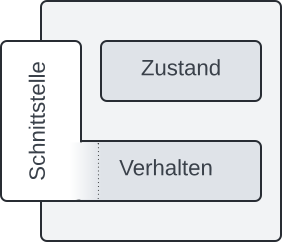
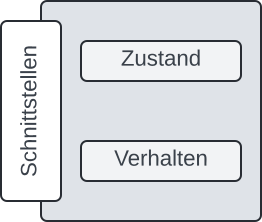
docs: update section Prinzipien guten Entwurfs

Changed region(s): [[0.0, 0.0, 1.0, 1.0], [0.458, 0.2162, 0.7939, 0.3243]]

diff --git a/docs/repetitorium/part two/Objektorientierter Entwurf/prinzipien guten entwurfs.tex b/docs/repetitorium/part two/Objektorientierter Entwurf/prinzipien guten entwurfs.tex
@@ -1,4 +1,4 @@
-\usepackage{lstmisc}\section{Prinzipien guten Entwurfs}
+\section{Prinzipien guten Entwurfs}
 
 Der Abschnitt~\cite[69, 3.7 Prinzipien guten Entwurfs]{Wed09b} vermittelt Kenntnisse, anhand derer man
 
@@ -10,7 +10,7 @@ Der Abschnitt~\cite[69, 3.7 Prinzipien guten Entwurfs]{Wed09b} vermittelt Kenntn
 
 \subsection{Was ist ein guter Entwurf}
 
-Die Frage läßt sich nciht generell beantworten, sondenr hängt von verschiedenen Faktoren ab, wie den Anforderugen einer konkreten Aufgabe.\\
+Die Frage läßt sich nicht generell beantworten, sondern hängt von verschiedenen Faktoren ab, wie den Anforderungen einer konkreten Aufgabe.\\
 
 \subsubsection*{Generelle Prinzipien}
 
@@ -59,7 +59,7 @@ Dennoch spricht folgendes für eine Zerlegung:
 
 
 \subsection{Hohe Kohäsion}
-Erfolgt eine Zerlegung in Pakete oder KLassen, mpssen die einzelnen Teile in einem funktionierenden System so gestaltet sein, dass sie miteinander zusammenarbeiten.\\
+Erfolgt eine Zerlegung in Pakete oder Klassen, müssen die einzelnen Teile in einem funktionierenden System so gestaltet sein, dass sie miteinander zusammenarbeiten.\\
 Arbeiten Teile miteinander zusammen, hängen sie aber auch in einer bestimmten Art und Weise voneinander ab.\\
 Dies wirkt sich auf das Verständnis bzw. Änderung einzelner Teile aus, da dann auch alle zusammenhängenden Teile verstanden bzw. u.U. geändert werden müssen.\\
 
@@ -76,7 +76,7 @@ Das wichtigste Prinzip lautet:
 [\ldots] den Zusammenhalt innerhalb der Teile möglichst hoch zu halten und Abhängigkeiten nach außen zu minimieren (Zusammenhalt = Cohesion).
 }
 \noindent
-Dinge, die zusammengehören, sollen innerhalb eines Teils erledigt werden, anbere Dinge sollten herausgehalten werden, bspw durch:
+Dinge, die zusammengehören, sollen innerhalb eines Teils erledigt werden, anbete Dinge sollten herausgehalten werden, bspw durch:
 
 \begin{itemize}
     \item $\rightarrow$ Operationen, die auf denselben Daten arbeiten, gehören zu einer Klasse
@@ -99,7 +99,7 @@ Man unterscheiden zwischen folgenden Typen des Zusammenhalts:
     \item[] Teile, die auf gleichen Daten operieren, gehören zusammen
     \item[] der Zusammenhalt ist an der Stelle schwächer als der Schichten-Zusammenhalt, da man i.d.R. nicht Geschäftslogik und Zugriff auf Datenbanken in derselben Klasse implementiert, auch, wenn das Model dieselben Daten benötigt
     \item \textbf{Utility-Zusammenhalt}
-    \item[] unter ``\textit{Utilitiy}`` werden hier Teile gemeint, die ähnliche Funktionalität bereitstellen, sich aber logisch nicht ordnen lassen (bspw. in Schichten)\footnote{s. bspw. Klassen aus \url{https://docs.oracle.com/en/java/javase/21/docs/api/java.base/java/util/package-summary.html}, abgerufen 19.04.2024}
+    \item[] unter ``\textit{Utility}`` werden hier Teile gemeint, die ähnliche Funktionalität bereitstellen, sich aber logisch nicht ordnen lassen (bspw. in Schichten)\footnote{s. bspw. Klassen aus \url{https://docs.oracle.com/en/java/javase/21/docs/api/java.base/java/util/package-summary.html}, abgerufen 19.04.2024}
 \end{itemize}
 
 \noindent
@@ -116,7 +116,7 @@ Der Zusammenhalt wird in der Reihenfolge schwächer (s. Abbildung~\ref{fig:zusam
 \begin{figure}
     \centering
     \includegraphics[scale=0.4]{part two/Objektorientierter Entwurf/img/adt}
-    \caption{Schematische Darstellung eines abstrakten Datentyps. Das Verhalten ist sowohl intern als auch extern über enstprechende Schnittstellen steuerbar.  (Quelle: eigene)}
+    \caption{Schematische Darstellung eines abstrakten Datentyps. Verhalten und Zustand sind sowohl intern als auch extern änderbar.  (Quelle: eigene)}
     \label{fig:adt}
 \end{figure}
 
@@ -135,7 +135,7 @@ Mit absteigender Reihenfolge nimmt auch die Stärke der Kopplung in folgender Li
     \item \textbf{Content-Kopplung}
     \item[] ein Teil ändert interne Daten eines anderen Teils
     \item[] die ändernde Klasse ist von der Struktur der zu ändernden Klasse \textbf{abhängig}
-    \item[] diese Art der Kopllung sollte vermieden werden, bspw. über Zugriffsmodifizierer und Zugriffsmethoden
+    \item[] diese Art der Kopplung sollte vermieden werden, bspw. über Zugriffsmodifizierer und Zugriffsmethoden
     \item[] unerwünschte Seiteneffekte können bspw. über das \textit{Immutable}-Pattern\footnote{
     s. Abschnitt~\ref{subsec:immutable}
     } erreicht werden
@@ -148,16 +148,99 @@ Mit absteigender Reihenfolge nimmt auch die Stärke der Kopplung in folgender Li
     \item[] ein Objekt wird als Argument einer Methode verwendet
     \item[] wird der öffentliche Teil der Klasse des Objektes geändert, muss auch die aufrufende Methode geändert werden
     \item[] zur vermeidung dieser Kopplung können einfache Variablen übergeben werden\footnote{
-        erhöht dann aber die \textbf{Data-Kopplung}) (siehe Martin, max. Anzahl parameter clean code)
-    \item }, oder es werden \textit{Interfaces} oder Klasse genutzt, die weit oben in der Ableitungshierarchie stehen
+        was dann wiederum die \textbf{Data-Kopplung} erhöht, s.u.
+    }, oder es werden \textit{Interfaces} oder Klasse genutzt, die weit oben in der Ableitungshierarchie stehen
     \item[] muss man sich für eine Alternative entscheiden, sollte man bedenken, dass die Anzahl der einfachen Variablen nicht zu groß sein darf
     \item \textbf{Data-Kopplung}
-    \item[] je mehr Argumente eine Methode hat, desto größer ist die Kopplung mit der benutzenden Komponente
+    \item[] je mehr Argumente eine Methode hat, desto größer ist die Kopplung mit der benutzenden Komponente\footnote{
+    ``The ideal number of arguments for a function is zero (niladic).`` (\cite[40]{Mar08}). Monadische Funktionen sind Funktionen mit einem Argument, dyadische mit zwei, triadische entsprechend mit 3 Argumenten. Polyadische Funktionen sollten laut \textit{Martin} vermieden werden (ebenda).
+    }
     \item[] \textbf{Stamp-Kopplung} und \textbf{Data-Kopplung} bedingen sich gegenseitig: Wird Stamp-Kopplung vermieden, erhöht sich i.d.R. Data-Kopplung, und umgekehrt
     \item \textbf{Routine Call-Kopplung}
     \item[] eine Methode ruft eine andere Methode auf
-    \item[] werden sehr viele MEthoden eines anderen Teils aufgerufen, sollte man die ZErlegung überlegen\footnote{
-    siehe Fowler featur eenvy
+    \item[] werden sehr viele Methode eines anderen Teils aufgerufen, sollte man die Zerlegung überlegen\footnote{
+    s. hierzu auch \textbf{Feature Envy}, ein \textit{Code Smell}, der dadurch charakterisiert ist, dass ``a method seems more interested in a class than the one it actually is in`` \cite[80 f.]{Fow99}
     }
-    \item[] werden Methoden immer in gleicher Sequenz aufgerufen, könnte man überlegen, die Sequenz auch als eigebständige Methode zusammenfassen
+    \item[] werden Methoden immer in gleicher Sequenz aufgerufen, könnte man überlegen, die Sequenz auch als eigenständige Methode zusammenfassen
 \end{itemize}
+
+\begin{figure}
+    \centering
+    \includegraphics[scale=0.4]{part two/Objektorientierter Entwurf/img/kopplung}
+    \caption{Typen von Kopplung, mit absteigender Anordnung werden die Kopplungskonzepte schwächer.  (Quelle: in Anlehnung an \cite[73, Abb. 3.18]{Wed09b})}
+    \label{fig:kopplung}
+\end{figure}
+
+\subsection{Grundlegende Prinzipien, die weiterhelfen}
+
+\subsubsection*{Abstraktion}
+Eine der grundlegenden Prinzipien ist das Prinzip der \textbf{Abstraktion}\footnote{
+\textit{Wedemann} merkt an, dass die Bedeutung der Abstraktion für das Software Engineering ``von \textit{Barbara Liskov} und \textit{John Guttag} entdeckt wurde`` (\cite[75, Hervorhebung eigene]{Wed09b}) und erwähnt ein ``sehr anspruchsvolles Buch`` der beiden zu dem Thema, leider ohne weitere Quellenangabe. Man darf vermuten, dass hiermit \cite{LG00} gemeint ist
+}.
+
+\noindent
+Das Prinzip besagt, dass Bauteile und Abläufe nach außen hin abstrakt sein sollen, also Details weggelassen werden sollten.
+
+\vspace{2mm}
+\begin{tcolorbox}[title=Abstraktion]
+    \blockquote[{\cite[75, Hervorhebung eigene]{Wed09b}}]{
+        Unter \textbf{Abstraktion} versteht man das Herausheben von Wesentlichem, Charakteristischem oder Gesetzmäßigem. Das Prinzip der Abstraktion beruht auf der Beobachtung, dass ein Teil leichter zu verstehen ist, wenn nicht alle Details verstanden werden müssen, sondern nur das Wesentliche.
+    }
+\end{tcolorbox}
+\vspace{2mm}
+
+\subsubsection*{Beispiele für Abstraktion}
+\begin{itemize}
+    \item Vertikale Schichten sind eine schrittweise Abstraktion von der Hardware
+    \item öffentliche Schnittstellen einer Klasse\footnote{
+        was als Geheimnisprinzip verstanden werden kann, das \textbf{Content-Kopplung} verhindert
+    } können als Abstraktion der Klasse gesehen werden
+    \item werden Interfaces zur Vermeidung von \textbf{Stamp-Kopplung} verwendet, ist das Interface die Abstraktion der tatsächlichen Klasse
+    \item ein \textbf{Iterator} ist eine Abstraktion des Zugriffs auf eine Datenstruktur
+    \item die Ergebnisse von Anforderungen, Analyse und Entwurf können als Abstraktion des zu erstellenden Systems betrachtet werden
+\end{itemize}
+
+
+\susubsection*{The Law of Demeter}
+\textit{Lieberherr}, \textit{Holland}, und \textit{Riel} formulieren 1988 in \cite{LHR88} das \textbf{Law of Demeter}, das das Ziel hat, eine Software möglichst modular zu erstellen.
+Dabei ist das Prinzip recht einfach gehalten:
+
+\blockquote[{\cite[325]{LHR88}}]{
+    Any method written to obey this Law will only know about the immediate structure of the class to which it is attached.
+}
+
+\noindent
+\textit{Martin} schreibt hierzu:
+
+\blockquote[{\cite[97 f.]{Mar08}}]{
+[...] the law of Demeter says that a method $f$ of a class $C$ should only call the methods of these:
+\begin{itemize}
+    \item $C$
+    \item An object created by $f$
+    \item An object passed as an argument to $f$
+    \item An object held in an instance variable of $C$
+\end{itemize}
+}
+\noindent
+und faßt ebenda das Prinzip folgendermaßen zusammen: ``talk to friends, not to strangers.``\footnote{
+s. hierzu auch \url{https://www2.ccs.neu.edu/research/demeter/demeter-method/LawOfDemeter/general-formulation.html}, abgerufen 20.04.2024
+}
+
+\subsubsection*{Vermeidung zirkulärer Abhängigkeiten}
+Eine \textbf{zirkuläre Abhängigkeit} liegt vor, wenn Beziehungen zwischen Klassen kreisförmig sind (s. Abbildung~\ref{fig:zirkulaer} a).\\
+Dadurch können Klassen nicht einzeln entwickelt bzw. getestet werden, was eine sehr starke Kopplung ausdrückt.\\
+Eine zyklische Abhängigkeit ist lft ein Fehler im Entwurf.\\
+Beruht die Abhängigkeit nicht auf einem Fehler, kann sie durch den Einsatz eines Interfaces aufgelöst werden (s. Abbildung~\ref{fig:zirkulaer} b).).
+
+\begin{figure}
+    \centering
+    \includegraphics[scale=0.4]{part two/Objektorientierter Entwurf/img/zirkulaer}
+    \caption{
+        Beispiel für eine zirkuläre Abhängigkeit (a) und deren Auflösung (b).
+        (Quelle: in Anlehnung an \cite[76, Abb. 3.19]{Wed09b})
+    }
+    \label{fig:zirkulaer}
+\end{figure}
+
+\subsubsection*{Liskovsches Substitutionsprinzip}
+Das \textbf{Ersetzbarkeitsprinzip} wurde bereits im Zusammenhang mit \textbf{Polymorphie} im Abschnitt~\ref{sec:beziehungen-von-klassen} eingeführt.
